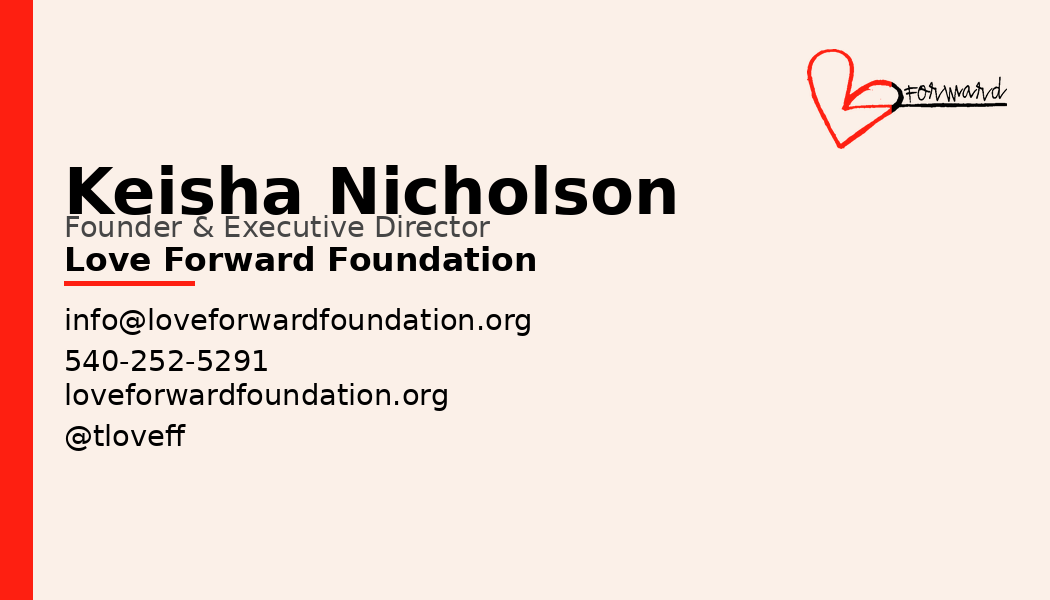
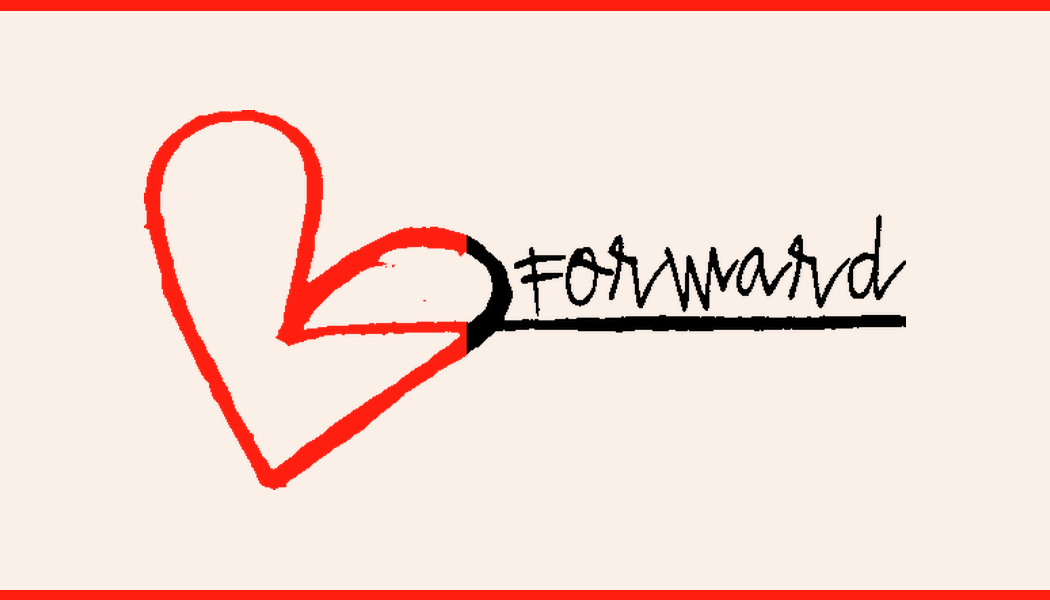
Update card mock PNGs and picker copy for locked layout
Replace option-a-front, option-b-back (logo-only face) and option-b-front
(option-a-back unchanged) with new client-approved mockups. Update index.html
descriptions to match: Option A logo front / contact+QR back; Option B flipped.

diff --git a/index.html b/index.html
@@ -44,7 +44,7 @@
     <div class="grid">
       <section class="option" id="optA">
         <h2><span class="badge">Option A</span> QR on back</h2>
-        <p class="diff">Clean logo-forward front; contact + QR on the back.</p>
+        <p class="diff">Logo-only front (no name); name, contacts + QR on the back.</p>
         <div class="pair">
           <div><div class="side-label">Front</div><img class="mock" src="assets/option-a-front.png" alt="Option A front" /></div>
           <div><div class="side-label">Back</div><img class="mock" src="assets/option-a-back.png" alt="Option A back" /></div>
@@ -54,7 +54,7 @@
       </section>
       <section class="option" id="optB">
         <h2><span class="badge">Option B</span> QR on front</h2>
-        <p class="diff">QR beside the name on front; full contact + small logo on back.</p>
+        <p class="diff">Name, contacts + QR on front; logo-only back (no name).</p>
         <div class="pair">
           <div><div class="side-label">Front</div><img class="mock" src="assets/option-b-front.png" alt="Option B front" /></div>
           <div><div class="side-label">Back</div><img class="mock" src="assets/option-b-back.png" alt="Option B back" /></div>
@@ -63,7 +63,7 @@
         <div class="note" id="noteB">Tell Cory you prefer Option B — <a href="mailto:cory@otv.agency?subject=Love%20Forward%20card%20pick&body=I%20prefer%20Option%20B">email Cory</a></div>
       </section>
     </div>
-    <footer>Love Forward Foundation · cream / red / black · print held</footer>
+    <footer>Love Forward Foundation · logo-forward face · name once on contact side · cream / red / black · print held</footer>
   </div>
 <script>
 function prefer(which){
